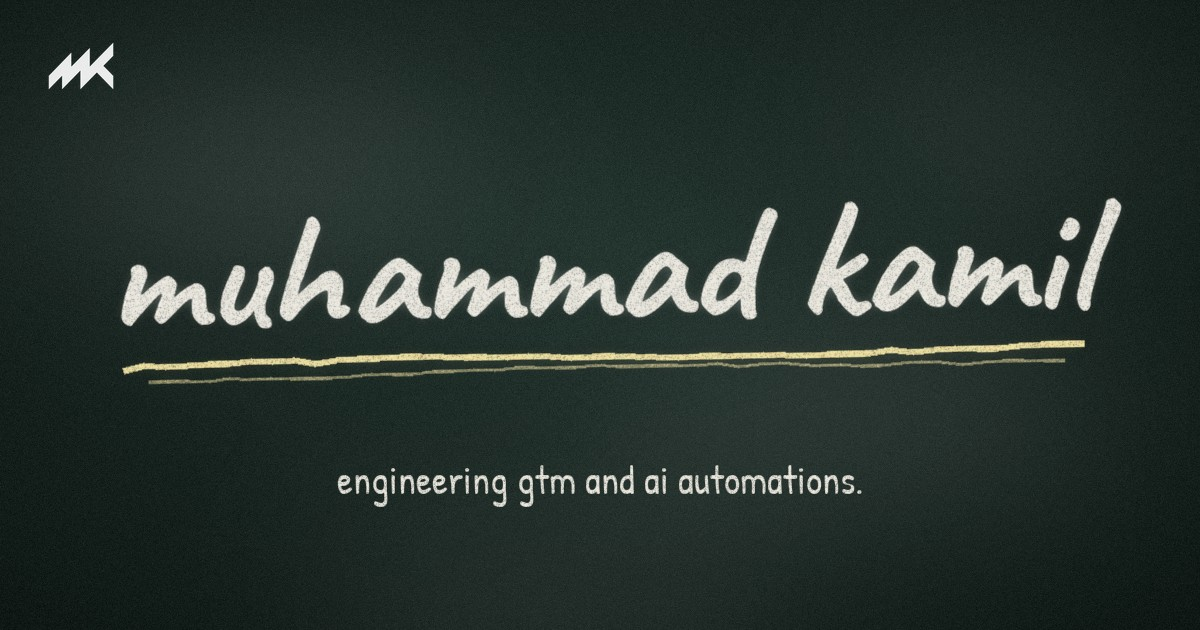
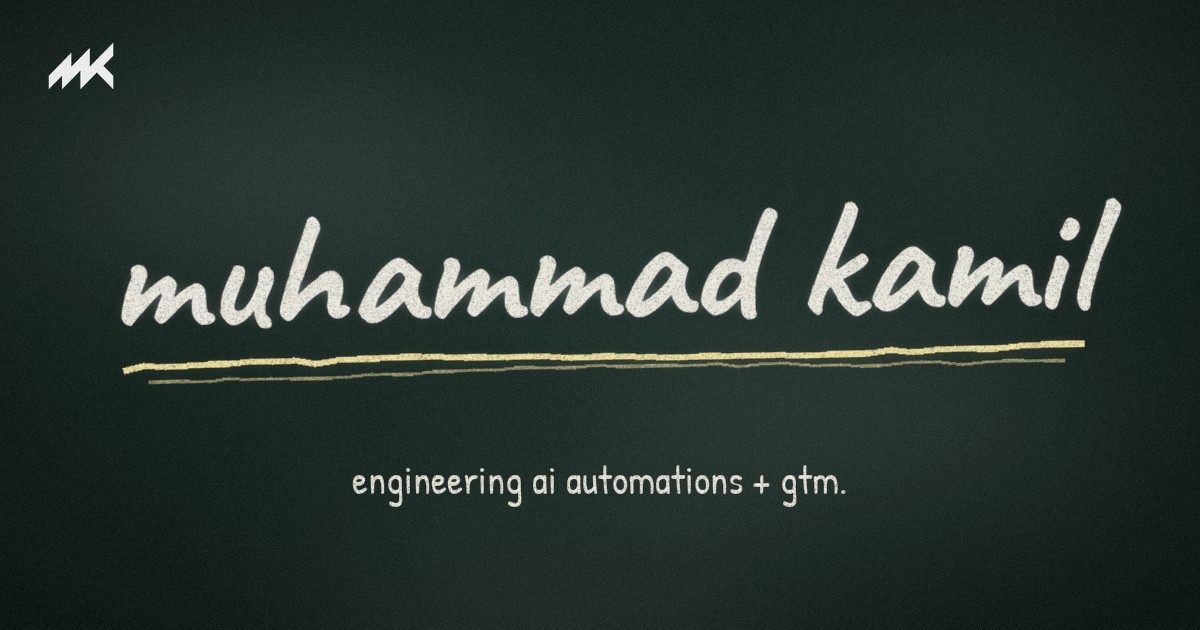
Animation pass + hero line "engineering ai automations + gtm."
- Tag pills pop in one-by-one (staggered translate/fade, wonky
  rotations preserved)
- Equation choreography: label -> lead -> pills -> plus signs appear
  in sequence, then the "=" strokes and impact underline draw last
- Chalk loop draws itself around "book a call" after the hero settles
- Faint floating margin sketches per section (spiral / squiggle /
  sparkle in pink, yellow, blue), drawn on scroll, hidden on mobile
- Tag hover feedback; suffix/aside fade in after their cloud
- Hero line 1, meta description, OG image -> "engineering ai
  automations + gtm." (og cache-bust v4)
- Reduced-motion shows everything static

Changed region(s): [[0.2775, 0.7238, 0.7092, 0.8143]]

diff --git a/src/app/globals.css b/src/app/globals.css
@@ -84,10 +84,25 @@ button { font: inherit; color: inherit; background: none; border: none; cursor: 
 .chalk .cue:hover{color:var(--soft)}
 .chalk .cue .arrow{width:1.7rem;height:2.7rem;color:currentColor}
 
-/* margin doodles */
-.chalk .doodle{position:absolute;width:2rem;height:2rem;opacity:0.3}
+/* margin doodles — gentle float, faint chalk */
+@keyframes chalk-float{0%,100%{translate:0 0}50%{translate:0 -6px}}
+.chalk .doodle{position:absolute;width:2rem;height:2rem;opacity:0.3;pointer-events:none;animation:chalk-float 7.5s ease-in-out infinite}
 .chalk .d1{top:16%;left:6%;color:var(--pink);transform:rotate(12deg)}
-.chalk .d2{bottom:22%;right:7%;color:var(--blue);width:1.5rem;height:1.5rem;transform:rotate(-18deg)}
+.chalk .d2{bottom:22%;right:7%;color:var(--blue);width:1.5rem;height:1.5rem;transform:rotate(-18deg);animation-delay:3.4s}
+
+/* per-section margin sketches */
+.chalk .sd{opacity:0.26}
+.chalk .da1{top:.6rem;right:1%;width:3rem;height:3rem;color:var(--pink);transform:rotate(12deg)}
+.chalk .da2{bottom:22%;right:5%;width:1.4rem;height:1.4rem;color:var(--blue);transform:rotate(-15deg);animation-delay:3.6s}
+.chalk .dn1{top:1.2rem;right:2%;width:3.4rem;height:1.3rem;color:var(--yellow);transform:rotate(-7deg)}
+.chalk .dn2{bottom:28%;right:4%;width:1.3rem;height:1.3rem;color:var(--pink);transform:rotate(20deg);animation-delay:2.8s}
+.chalk .dp1{top:1rem;right:3%;width:1.7rem;height:1.7rem;color:var(--blue);transform:rotate(10deg)}
+.chalk .dp2{bottom:22%;right:7%;width:3rem;height:1.1rem;color:var(--pink);transform:rotate(6deg);animation-delay:4.2s}
+
+/* chalk loop around the hero CTA — draws in after the rest */
+.chalk .cta{position:relative}
+.chalk .cta-circ{position:absolute;left:-1.3rem;top:-0.8rem;width:calc(100% + 2.6rem);height:calc(100% + 1.6rem);color:var(--yellow);pointer-events:none}
+.chalk .cta-circ path{animation-delay:1.7s;animation-duration:1.15s}
 
 /* ── sections ── */
 .chalk section{padding:clamp(2.6rem,6vh,4.2rem) 0;scroll-margin-top:1.5rem}
@@ -119,7 +134,9 @@ button { font: inherit; color: inherit; background: none; border: none; cursor: 
 /* chalk tag pills — hand-drawn wonky boxes */
 .chalk .tags{display:flex;flex-wrap:wrap;align-items:center;gap:.55rem .6rem;margin-top:.85rem;max-width:72ch}
 .chalk .tag{font-size:.95rem;line-height:1.3;color:var(--soft);border:2px solid rgba(237,234,225,0.34);
-  border-radius:225px 12px 255px 12px/12px 255px 12px 225px;padding:.14rem .72rem .2rem;transform:rotate(-0.5deg);white-space:nowrap}
+  border-radius:225px 12px 255px 12px/12px 255px 12px 225px;padding:.14rem .72rem .2rem;transform:rotate(-0.5deg);white-space:nowrap;
+  transition:border-color .15s,color .15s}
+.chalk .tag:hover{border-color:rgba(237,234,225,0.62);color:var(--chalk)}
 .chalk .tag:nth-child(2n){transform:rotate(0.7deg);border-radius:12px 225px 12px 255px/255px 12px 225px 12px}
 .chalk .tag:nth-child(3n){border-radius:255px 15px 225px 15px/15px 225px 15px 255px}
 .chalk .tag.accent{color:var(--yellow);border-color:rgba(240,224,162,0.5)}
@@ -216,6 +233,43 @@ html.anim section.reveal>:nth-child(8){transition-delay:.63s}
 html.anim section.reveal>:nth-child(9){transition-delay:.72s}
 html.anim section.reveal.inview>*{opacity:1;transform:none}
 
+/* ── choreography: pills pop in, then the equation resolves ──
+   (translate/opacity only — the wonky rotates live in `transform`) */
+html.anim section.reveal .tags .tag{opacity:0;translate:0 7px;transition:opacity .35s ease,translate .35s cubic-bezier(.3,1.4,.6,1)}
+html.anim section.reveal.inview .tags .tag{opacity:1;translate:0 0}
+html.anim section.reveal.inview .tags .tag:nth-child(1){transition-delay:.3s}
+html.anim section.reveal.inview .tags .tag:nth-child(2){transition-delay:.34s}
+html.anim section.reveal.inview .tags .tag:nth-child(3){transition-delay:.38s}
+html.anim section.reveal.inview .tags .tag:nth-child(4){transition-delay:.42s}
+html.anim section.reveal.inview .tags .tag:nth-child(5){transition-delay:.46s}
+html.anim section.reveal.inview .tags .tag:nth-child(6){transition-delay:.5s}
+html.anim section.reveal.inview .tags .tag:nth-child(7){transition-delay:.54s}
+html.anim section.reveal.inview .tags .tag:nth-child(8){transition-delay:.58s}
+html.anim section.reveal.inview .tags .tag:nth-child(9){transition-delay:.62s}
+html.anim section.reveal.inview .tags .tag:nth-child(10){transition-delay:.66s}
+html.anim section.reveal.inview .tags .tag:nth-child(11){transition-delay:.7s}
+html.anim section.reveal.inview .tags .tag:nth-child(12){transition-delay:.74s}
+html.anim section.reveal.inview .tags .tag:nth-child(13){transition-delay:.78s}
+html.anim section.reveal .tags .suffix,html.anim section.reveal .tags .aside{opacity:0;transition:opacity .45s ease}
+html.anim section.reveal.inview .tags .suffix,html.anim section.reveal.inview .tags .aside{opacity:1;transition-delay:.9s}
+
+html.anim section.reveal .eq>*{opacity:0;translate:0 8px;transition:opacity .4s ease,translate .4s cubic-bezier(.3,1.4,.6,1)}
+html.anim section.reveal.inview .eq>*{opacity:1;translate:0 0}
+html.anim section.reveal.inview .eq>:nth-child(1){transition-delay:.35s}
+html.anim section.reveal.inview .eq>:nth-child(2){transition-delay:.45s}
+html.anim section.reveal.inview .eq>:nth-child(3){transition-delay:.55s}
+html.anim section.reveal.inview .eq>:nth-child(4){transition-delay:.65s}
+html.anim section.reveal.inview .eq>:nth-child(5){transition-delay:.75s}
+html.anim section.reveal.inview .eq>:nth-child(6){transition-delay:.85s}
+html.anim section.reveal.inview .eq>:nth-child(7){transition-delay:.95s}
+html.anim section.reveal.inview .eq>:nth-child(8){transition-delay:1.05s}
+/* the "=" strokes and impact underline draw last — the payoff */
+html.anim section.reveal.inview .res .scr path{animation-delay:1.15s;animation-duration:.8s}
+
+/* margin sketches fade in late, draw even later */
+html.anim section.reveal>.sd{transition-delay:1.1s}
+html.anim section.reveal.inview .sd path{animation-delay:1.2s}
+
 /* entrance + a11y */
 @keyframes chalk-rise{from{opacity:0;transform:translateY(18px)}to{opacity:1;transform:translateY(0)}}
 .chalk a:focus-visible,.chalk button:focus-visible{outline:2px solid rgba(237,234,225,0.65);outline-offset:3px;border-radius:6px}
@@ -236,7 +290,8 @@ html.anim section.reveal.inview>*{opacity:1;transform:none}
   .chalk .sec-head{gap:.85rem}
   .chalk .numwrap{width:2.8rem;height:2.8rem}
   .chalk .numwrap .num{font-size:1.55rem}
-  .chalk .doodle{display:none}
+  .chalk .doodle,.chalk .sd{display:none}
+  .chalk .cta-circ{display:none}
   .chalk .bignum{font-size:2.5rem}
   .chalk .stats-grid{grid-template-columns:repeat(2,1fr);gap:1.1rem 1rem}
   .chalk .stat .n{font-size:1.8rem}
@@ -253,6 +308,9 @@ html.anim section.reveal.inview>*{opacity:1;transform:none}
   .chalk .hero-mid{animation:none}
   .chalk .hero .scr path,html.anim svg.divider path,html.anim section.reveal .scr path{animation:none;stroke-dashoffset:0}
   html.anim section.reveal>*{opacity:1;transform:none;transition:none}
+  html.anim section.reveal .tags .tag,html.anim section.reveal .eq>*,
+  html.anim section.reveal .tags .suffix,html.anim section.reveal .tags .aside{opacity:1;translate:0 0;transition:none}
+  .chalk .doodle{animation:none}
   .chalk .float-book{transition:none}
 }
 @media print{

diff --git a/src/app/page.tsx b/src/app/page.tsx
@@ -105,6 +105,53 @@ function Sparkle({ className = "" }: { className?: string }) {
   );
 }
 
+function Squiggle({ className = "" }: { className?: string }) {
+  return (
+    <svg className={`scr doodle ${className}`} viewBox="0 0 62 20" preserveAspectRatio="none" aria-hidden="true">
+      <path pathLength={1} d="M4 12 C 9 4, 14 18, 20 10 S 31 4, 36 11 S 48 18, 58 8" fill="none" stroke="currentColor" strokeWidth="2.6" strokeLinecap="round" filter="url(#chalk)" />
+    </svg>
+  );
+}
+
+function Spiral({ className = "" }: { className?: string }) {
+  return (
+    <svg className={`scr doodle ${className}`} viewBox="0 0 64 64" aria-hidden="true">
+      <path pathLength={1} d="M33 30 C 36 28, 40 30, 39 34 C 38 39, 31 41, 27 37 C 21 31, 25 21, 33 19 C 44 16, 52 25, 50 35 C 48 46, 36 52, 26 48" fill="none" stroke="currentColor" strokeWidth="2.4" strokeLinecap="round" filter="url(#chalk)" />
+    </svg>
+  );
+}
+
+/* chalk loop drawn around the hero CTA after load */
+function CtaCircle() {
+  return (
+    <svg className="scr cta-circ" viewBox="0 0 240 84" preserveAspectRatio="none" aria-hidden="true">
+      <path pathLength={1} d="M28 14 C 90 2, 200 6, 222 30 C 238 50, 190 74, 118 76 C 52 78, 10 64, 12 42 C 14 26, 44 16, 82 12" fill="none" stroke="currentColor" strokeWidth="2.6" strokeLinecap="round" filter="url(#chalk)" opacity="0.8" />
+    </svg>
+  );
+}
+
+/* faint margin sketches per section (positioned in CSS, drawn on scroll) */
+const SECTION_DOODLES: Record<string, React.ReactNode> = {
+  advisory: (
+    <>
+      <Spiral className="sd da1" />
+      <Sparkle className="sd da2" />
+    </>
+  ),
+  network: (
+    <>
+      <Squiggle className="sd dn1" />
+      <Sparkle className="sd dn2" />
+    </>
+  ),
+  partnership: (
+    <>
+      <Sparkle className="sd dp1" />
+      <Squiggle className="sd dp2" />
+    </>
+  ),
+};
+
 /* ── chalk section icons (replace emojis; keyed by section id) ── */
 function NetworkIcon() {
   return (
@@ -231,6 +278,7 @@ export default function Home() {
               ))}
             </p>
             <div className="cta">
+              <CtaCircle />
               <button className="btn-chalk" {...calAttrs}>book a call ↗</button>
             </div>
             <div className="featured">
@@ -283,6 +331,7 @@ export default function Home() {
                     </div>
                     {s.role.aside && <span className="aside">{s.role.aside}</span>}
                   </div>
+                  {SECTION_DOODLES[s.id]}
                 </section>
               </Fragment>
             );

diff --git a/src/app/layout.tsx b/src/app/layout.tsx
@@ -22,7 +22,7 @@ const patrick = Patrick_Hand({
 // Short enough to stay on one line in link previews.
 const title = "Muhammad Kamil - ai automations + gtm.";
 const description =
-  "engineering gtm and ai automations. advisory for startups, businesses, and venture funds ($1M -> $3B). growth, design, product, and ugc consultant (yc, a16z, speedrun, 10x).";
+  "engineering ai automations + gtm. advisory for startups, businesses, and venture funds ($1M -> $3B). growth, design, product, and ugc consultant (yc, a16z, speedrun, 10x).";
 
 export const metadata: Metadata = {
   title,
@@ -39,14 +39,14 @@ export const metadata: Metadata = {
     type: "website",
     locale: "en_US",
     // ?v= busts platform link-preview caches when the image changes
-    images: [{ url: "/og-image.jpg?v=3", width: 1200, height: 630, alt: "Muhammad Kamil" }],
+    images: [{ url: "/og-image.jpg?v=4", width: 1200, height: 630, alt: "Muhammad Kamil" }],
   },
   twitter: {
     card: "summary_large_image",
     title,
     description,
     creator: "@mk7ft",
-    images: ["/og-image.jpg?v=3"],
+    images: ["/og-image.jpg?v=4"],
   },
   robots: {
     index: true,

diff --git a/src/content.ts b/src/content.ts
@@ -45,7 +45,7 @@ export const FEATURED = ["Forbes", "TechCrunch", "Business Insider", "ESPN", "Fo
 
 // Hero bio — the 5-second pitch, one entry per line.
 export const BIO: Run[][] = [
-  [{ text: "engineering gtm and ai automations." }],
+  [{ text: "engineering ai automations + gtm." }],
   [
     { text: "advisory for startups, businesses, and venture funds " },
     { text: "($1M -> $3B)", hi: true },
